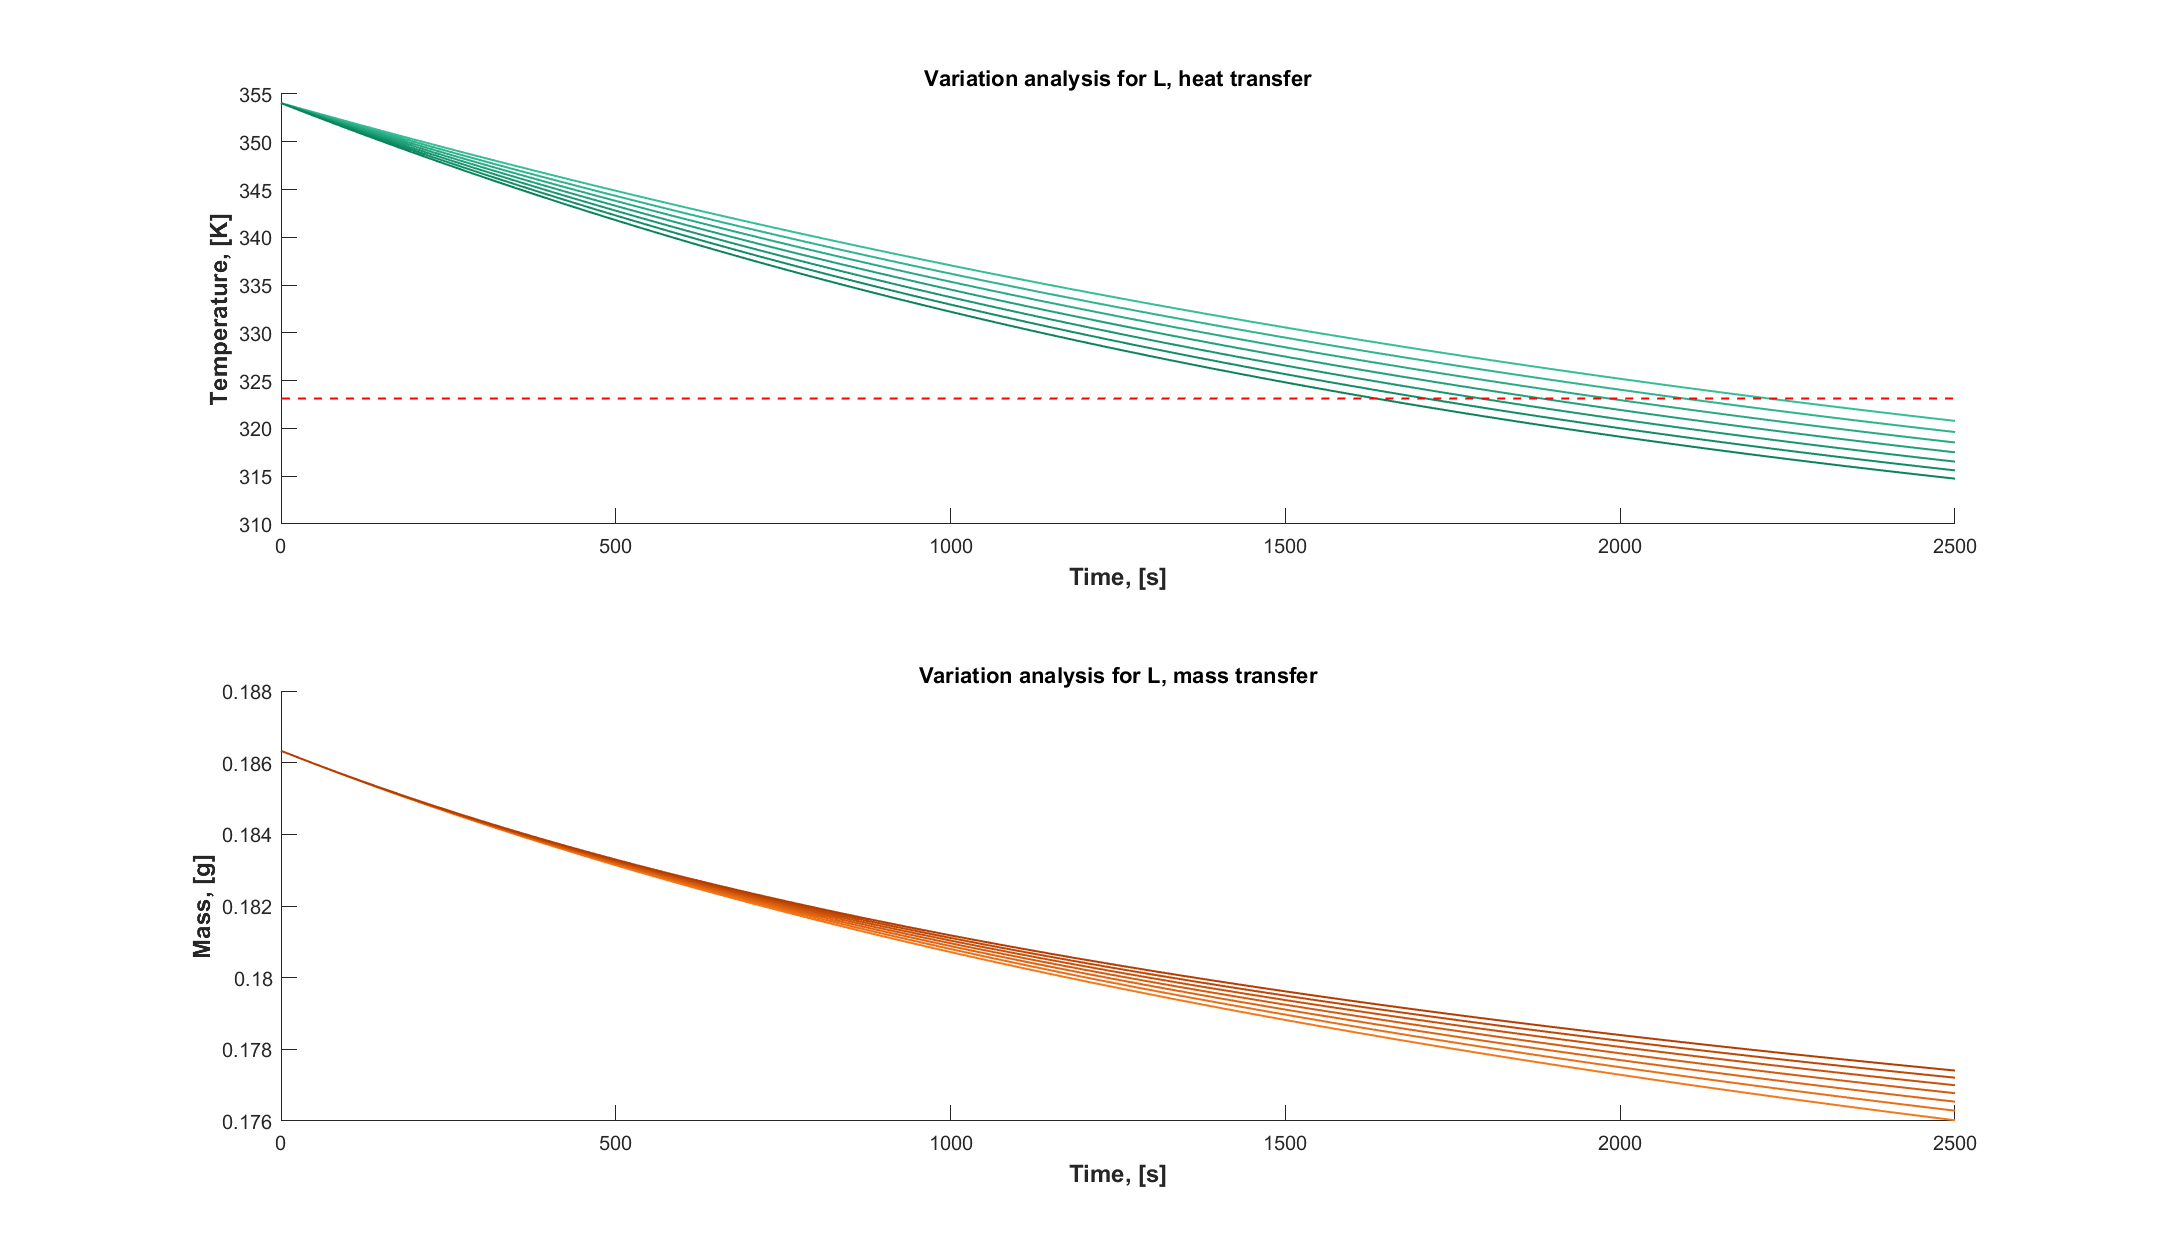
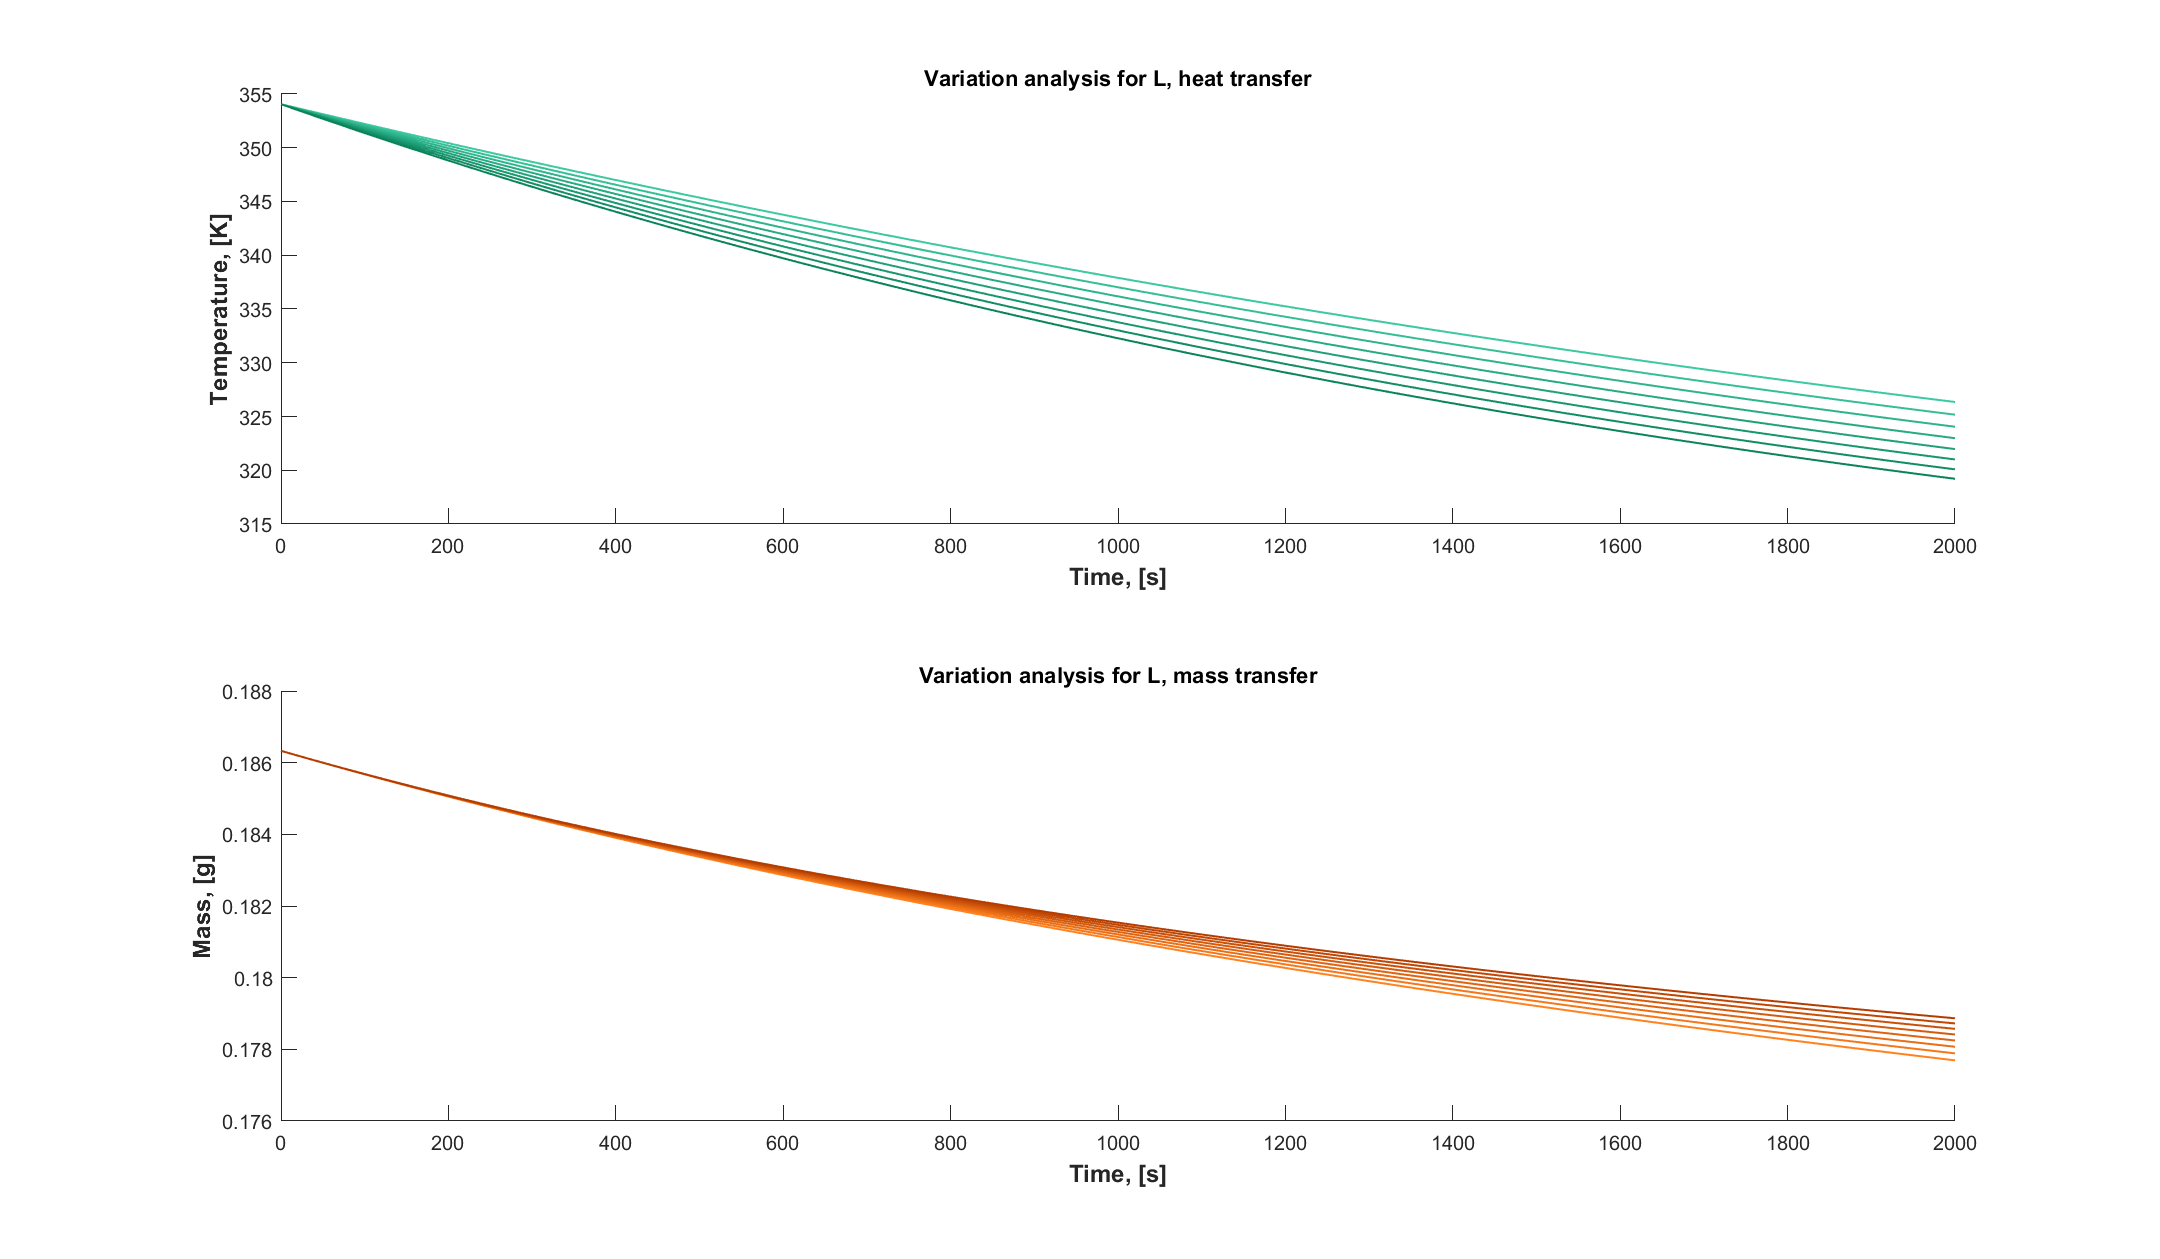
Uppdaterat

diff --git a/matlab/test_variation_RG.m b/matlab/test_variation_RG.m
@@ -17,10 +17,10 @@ m0 = S{1,3}*10^-3;
 
 
 T0 = [T_water0,m0]; %inital values for the ode
-t_span =linspace(0,5000);% S{:,1};
+t_span =linspace(0,2000);% S{:,1};
 selctiontype = [{'T_{air}'}, {'r_{inner}'}, {'r_{outer}'}, {'L'}, {'epsilon'},{'k'}];%constants that can change. Choose one of them with 'Select'
-Select = 2; %The constant that will vary. 1 = T_air, 2 = r_inner ect
-I = 7; %Number of different values of constant you want to include in the plot
+Select = 5; %The constant that will vary. 1 = T_air, 2 = r_inner ect
+I = 7; %Number of different values of constant you want to include in the plot. OBS! If I =m, the plot will have m +1 iterations and lines as it will also plot iter = 0.
 
 
 figure("Name", "Variatin of constant  " + selctiontype(Select))
@@ -42,7 +42,7 @@ Orange_dark = [180,60,0]/255;
 
 
 
-for iter = 1:I
+for iter = 0:I
     Green_grad = @(iter) Green_light + (Green_dark - Green_light)/I*iter;
     Orange_grad = @(iter) Orange_light + (Orange_dark - Orange_light)/I*iter;
 
@@ -53,7 +53,7 @@ for iter = 1:I
     subplot(2,1,1)
     plot(t,T(:,1),'Color',Green_grad(iter),'linewidth',1); hold on;
     title(['Variation analysis for ', selctiontype{Select}, ', heat transfer'])
-    yline(273.15+50, 'r--', LineWidth=1)  
+   % yline(273.15+50, 'r--', LineWidth=1)  
     %mass plots
     subplot(2,1,2)
     plot(t,T(:,2),'Color',Orange_grad(iter),'linewidth',1); hold on;

diff --git a/matlab/Variation_mug.m b/matlab/Variation_mug.m
@@ -19,7 +19,7 @@ t_h = t_span(end)/3600
 
 selctiontype = [{'T_{air}'}, {'r_{inner}'}, {'r_{outer}'}, {'L'},{'k'},{'epsilon'}];%constants that can change. Choose one of them with 'Select'
 Select = 2; %The constant that will vary. 1 = T_air, 2 = r_inner ect
-I = 8; %Number of different values of constant you want to include in the plot
+I = 7; %Number of different values of constant you want to include in the plot
 
 
 figure("Name", "Variatin of constant  " + selctiontype(Select))

diff --git a/matlab/dT_dt_RG2.m b/matlab/dT_dt_RG2.m
@@ -25,7 +25,7 @@ Tair_max = 273.15 + 25;
 dT = (Tair_max-Tair_min)/I;
 
 rinner_min = 50*10^-3/2;
-rinner_max = 100*10^-3/2;
+rinner_max = 70*10^-3/2;
 drinner = (rinner_max-rinner_min)/I;
 
 router_min = r_inner/2-5*10^-3;
@@ -36,7 +36,7 @@ L_min = 80*10^-3;
 L_max = 105*10^-3;
 dL = (L_max - L_min)/I;
 
-eps_min = 0.3;
+eps_min = 0.5;
 eps_max = 1;
 deps = (eps_max - eps_min)/I;
 

diff --git a/matlab/h_cyl.m b/matlab/h_cyl.m
@@ -9,7 +9,7 @@ Ra = Gr * pr_air(T_air,T_surf); % eq 19-3
 
 %if 2*r_outer > 35/Gr^(1/4)
     Nu = 0.68 + 0.67*Ra^(1/4)/(1+(0.492/pr_air(T_air,T_surf)));
-    out = Nu*k_air(T_surf)/L;
+    out = Nu*k_air((T_surf+T_air)/2)/L;
 %else
  %   error('Nu can not be calculated as a vertical cylinder')
 %%end

diff --git a/matlab/h_top.m b/matlab/h_top.m
@@ -15,6 +15,6 @@ elseif (2*10^7<Ra) && (Ra<3*10^(19))
     x = 1/3;
 end
 
-out = C*Ra^x*k_air(T_water)/D;
+out = C*Ra^x*k_air((T_water+T_air)/2)/D;
 
 end
